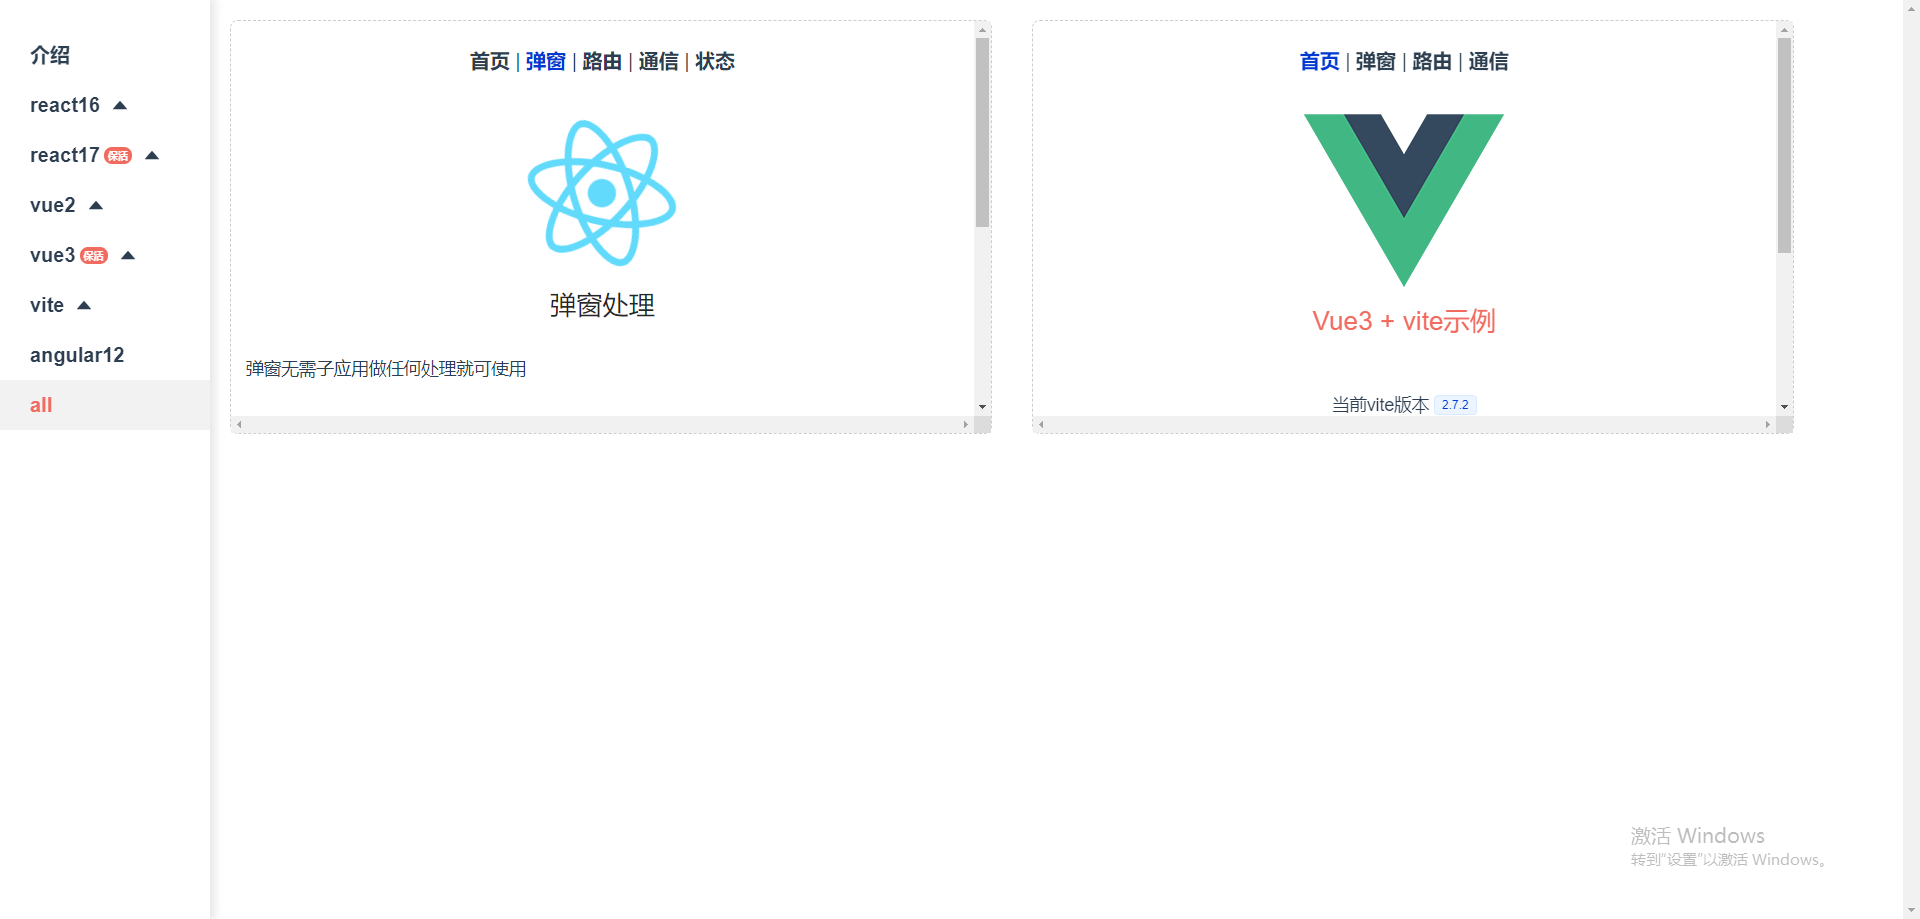
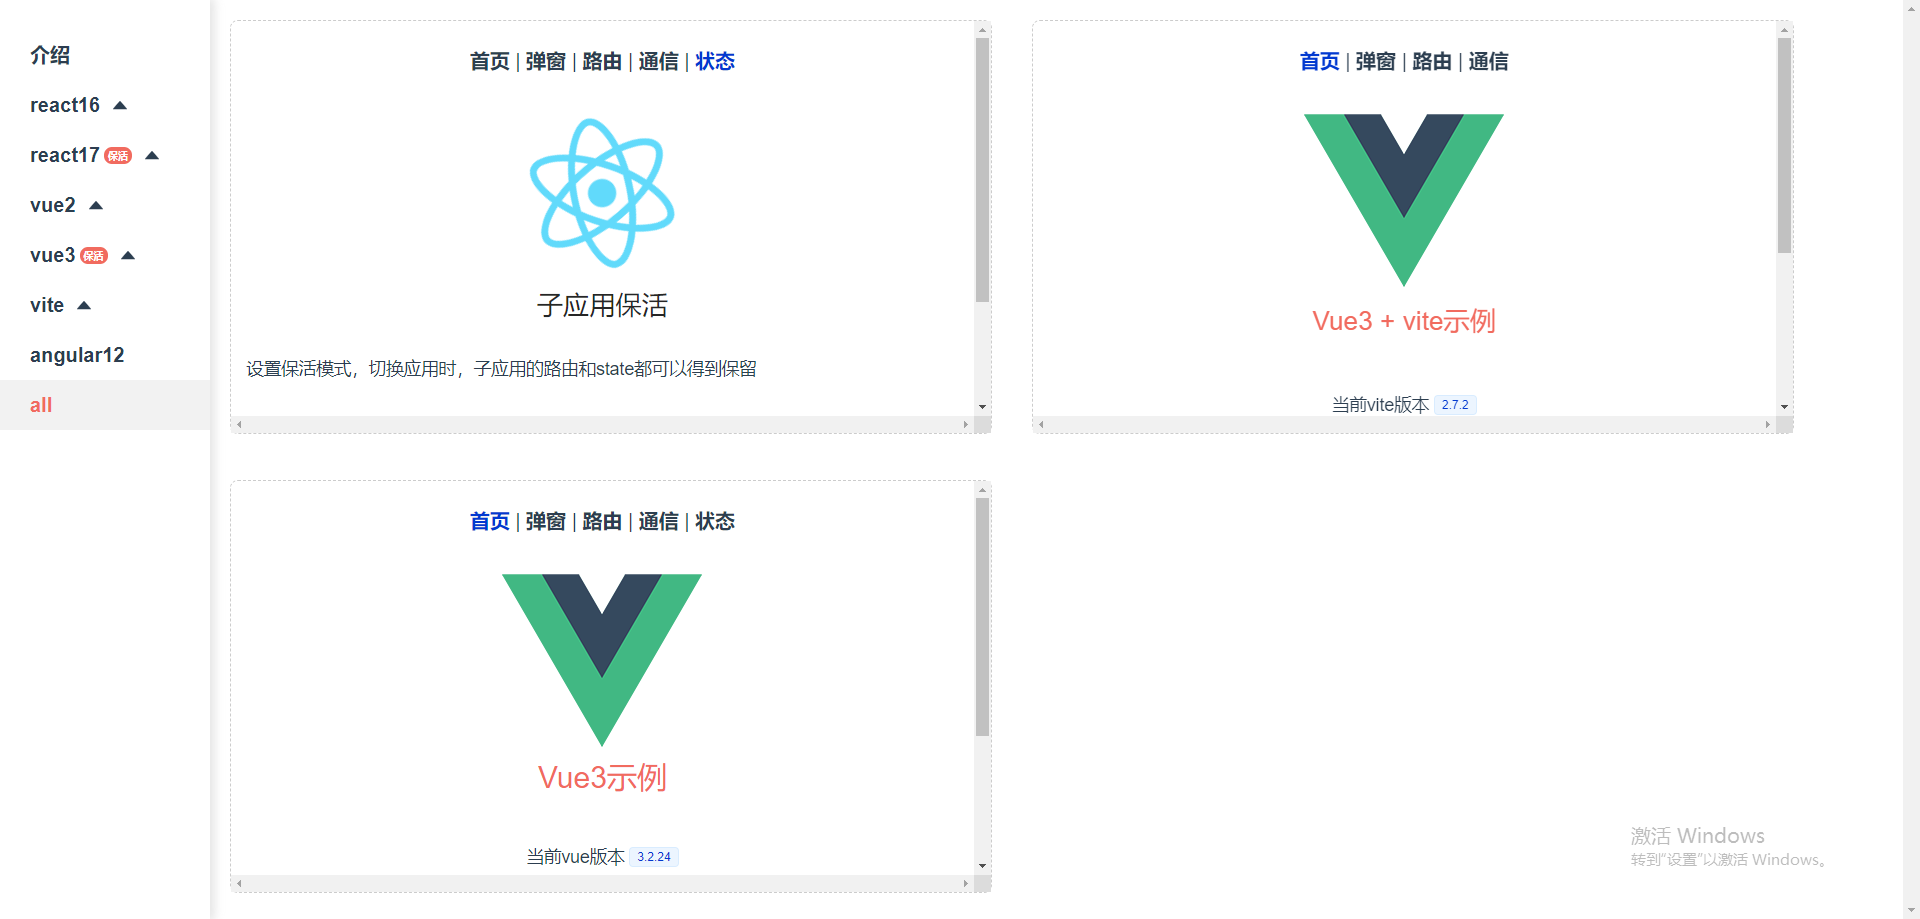
doc: 微前端

diff --git a/2024/qiankun.md b/2024/qiankun.md
@@ -32,7 +32,10 @@
 - 进入examples/vue3目录；运行yarn install；yarn start
 ### 体验
 运行wujie微前端之后，切换子应用的时候，没有出现异常,但是打开弹框后却发生了滚动。
-目前成功运行了vite和react17两个子应用，足够测试为前端的大部分功能了。
+目前成功运行了vite，vue3和react17三个子应用，足够测试为前端的大部分功能了。
 ![img.png](img/img3.png)
+### 通信
+#### 路由管理
+#### state管理
 ## micro-app
 链接：https://github.com/micro-zoe/micro-app
